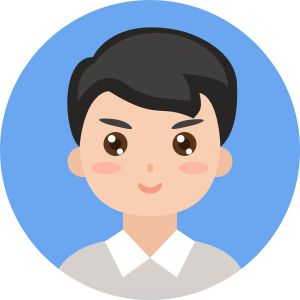
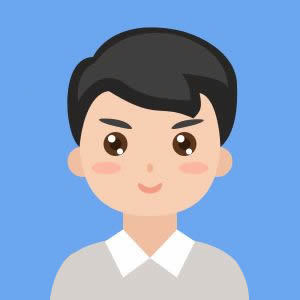
opt 优化个人中心首页效果

diff --git a/src/view/user/catalog.vue b/src/view/user/catalog.vue
@@ -2,10 +2,13 @@
   <div class="page page-user-index">
     <container top="0">
       <div class="userInfo">
-        <div class="avatar">
-          <img :src="avatar" alt="头像">
+        <div class="content">
+          <div class="avatar">
+            <img :src="avatar" alt="头像">
+          </div>
+          <div class="name">{{name}}</div>
+          <div class="company">{{userInfo.OrganizationName}}</div>
         </div>
-        <div class="name">{{name}}</div>
       </div>
       <!-- <divider></divider> -->
       <!-- <card>
@@ -131,7 +134,8 @@ export default {
         year: '',
         total: null,
         list: []
-      }
+      },
+      userInfo: {}
     };
   },
   computed: {
@@ -265,28 +269,49 @@ export default {
   margin-bottom 1.17647059em
   padding 45px 0 20px
   background-color #f17474
-  .avatar {
-    width 100px
-    height 100px
+  overflow hidden
+  &:before {
+    top 110px
+    background-color #FFF
+    width 130%
+    margin-left -65%
+    content ''
+    display block
+    position absolute
+    height 150%
+    left 50%
     border-radius 50%
-    background-color #C00
-    overflow hidden
-    margin 0 auto
-    img {
-      width 100%
-      line-height 100px
-      text-align center
-      display block
-      margin 0 auto
-      color #FFF
-    }
   }
-  .name {
-    text-align center
-    color #FFF
-    text-shadow 0 0 2px #000
-    font-size 14px
-    padding-top 5px
+  .content {
+    position relative
+    .avatar {
+      width 100px
+      height 100px
+      border-radius 50%
+      overflow hidden
+      margin 0 auto
+      border solid 3px rgba(0, 0, 0, 0.3)
+      img {
+        width 100%
+        line-height 100px
+        text-align center
+        display block
+        margin 0 auto
+        color #FFF
+      }
+    }
+    .name {
+      text-align center
+      font-size 16px
+      line-height 20px
+      padding-top 5px
+    }
+    .company {
+      padding-top 10px
+      text-align center
+      font-size 12px
+      color #999
+    }
   }
 }
 .card-flex {
